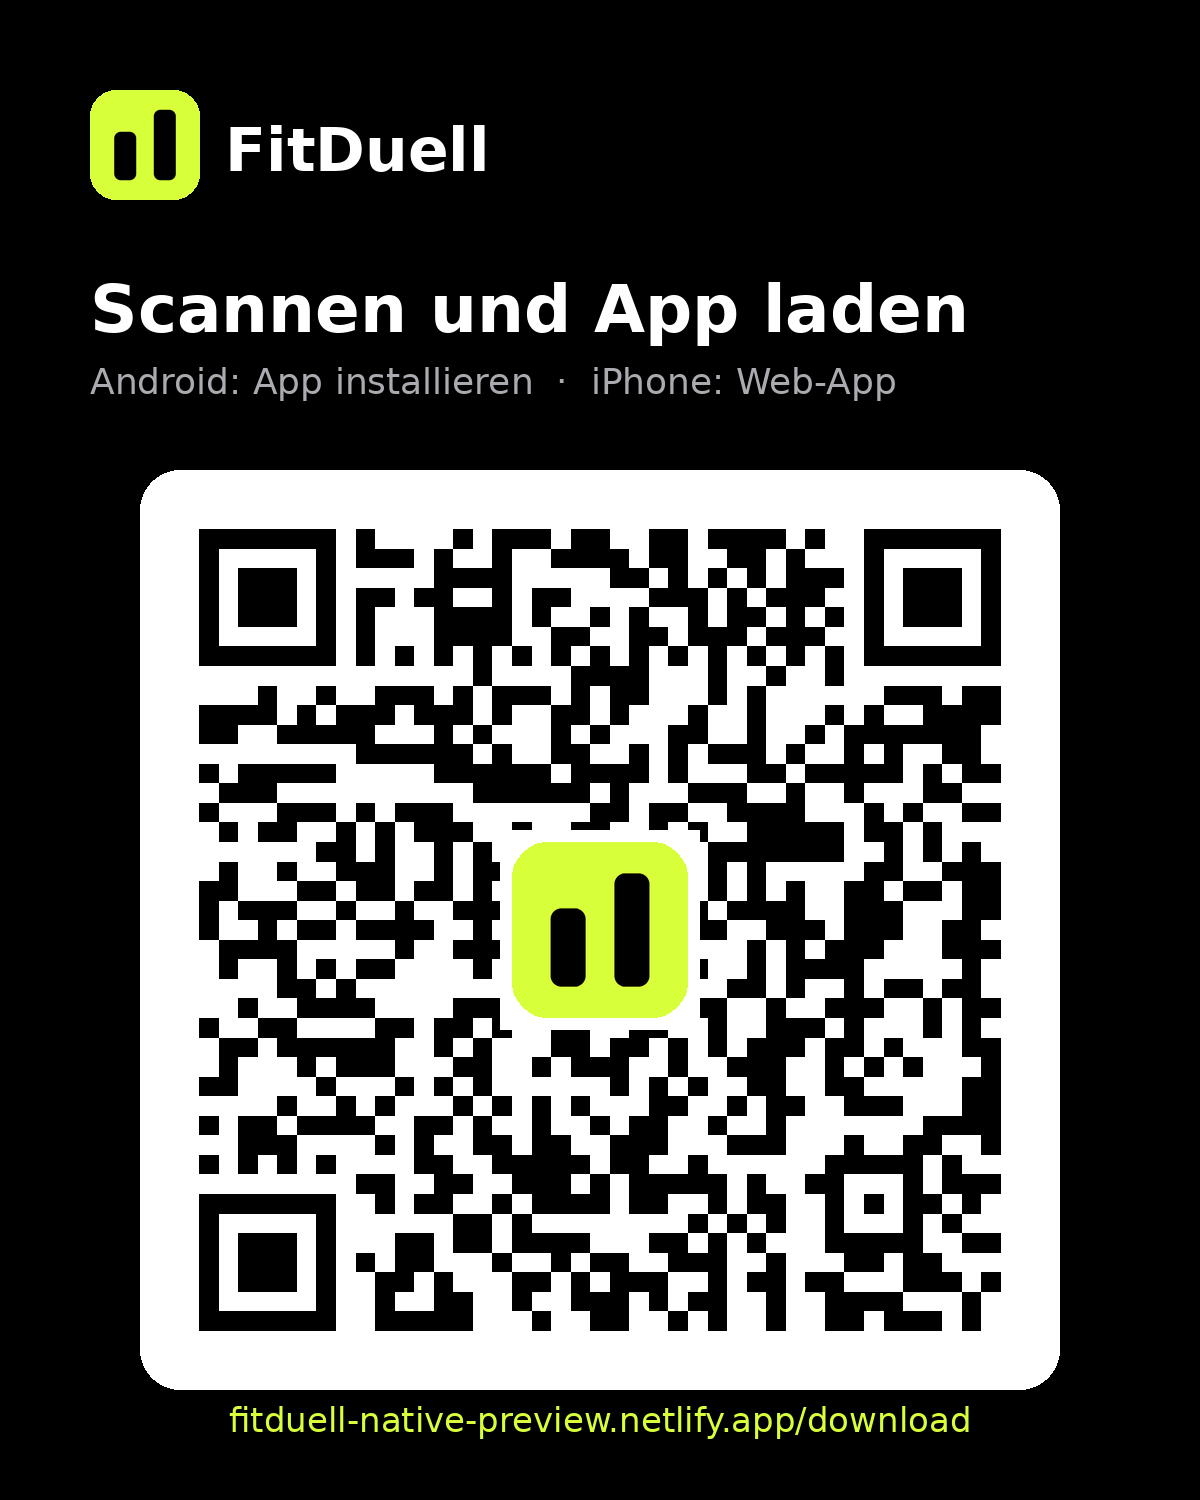
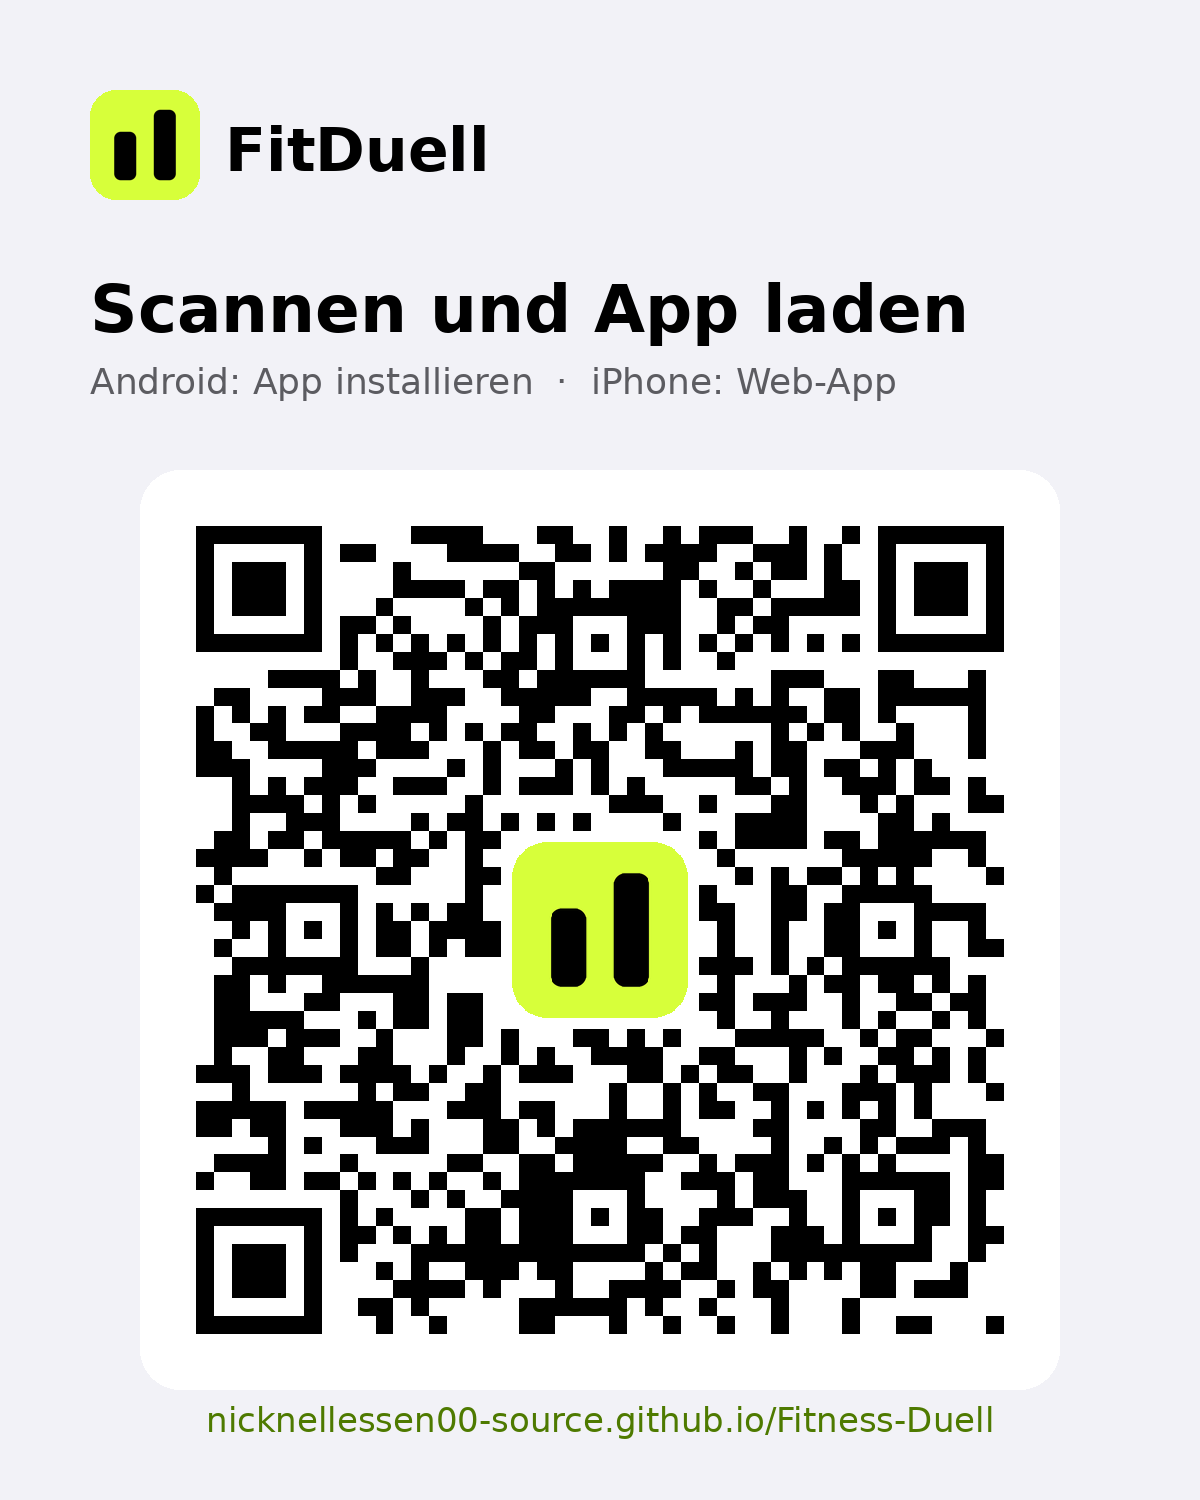
Web-Version automatisch auf GitHub Pages veröffentlichen
- Workflow baut bei jedem Push auf main und veröffentlicht auf GitHub Pages
- app.config.js setzt den Unterordner (/Fitness-Duell) nur für den Pages-Build
- scripts/pages-prepare.mjs: Pfade, 404-Fallback für Direktaufrufe, .nojekyll
- Download-Button für Android zeigt auf FitDuell.apk im neuesten Release
- Neuer QR-Code für die GitHub-Pages-Adresse

Claude-Session: https://claude.ai/code/session_015mvksAZ2BnDbTxDwDHWMzK

diff --git a/app.config.js b/app.config.js
@@ -1,0 +1,6 @@
+// Ergänzt app.json: Für GitHub Pages läuft die Web-Version unter einem Unterordner (/Fitness-Duell).
+// Die Pages-Pipeline setzt EXPO_BASE_URL; lokal und bei App-Builds bleibt sie leer.
+module.exports = ({ config }) => ({
+  ...config,
+  experiments: { ...config.experiments, ...(process.env.EXPO_BASE_URL ? { baseUrl: process.env.EXPO_BASE_URL } : {}) },
+});

diff --git a/README.md b/README.md
@@ -9,6 +9,10 @@ Trainiere, sammle Punkte und tritt jede Woche gegen deine Freunde an: Wochen-Cha
 | `legacy-pwa/` | Erste Web-App (Vanilla JS) – nur noch als Referenz |
 | `docs/` | QR-Code zum Laden der App, Screenshots |
 
+**Web-Version:** https://nicknellessen00-source.github.io/Fitness-Duell/ · **Download-Seite (QR-Code):** https://nicknellessen00-source.github.io/Fitness-Duell/download
+
+Die Web-Version wird bei jedem Push auf `main` automatisch gebaut und auf GitHub Pages veröffentlicht (`.github/workflows/pages.yml`). Die Android-App für den Download-Button gehört als `FitDuell.apk` in ein GitHub-Release.
+
 ---
 
 # Native App (iPhone & Android)
